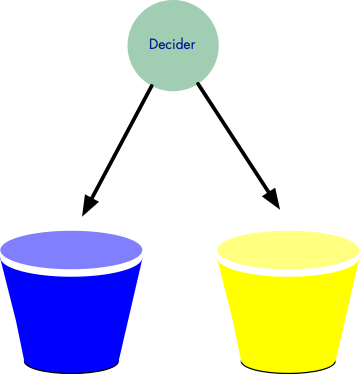
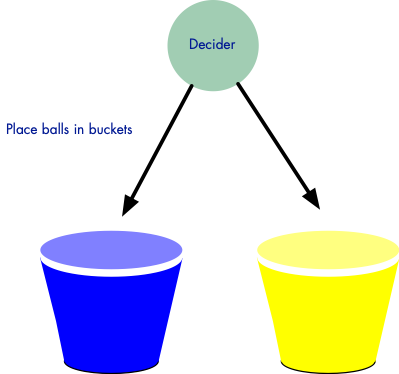
Completed todo list for Main task

diff --git a/todo-list.md b/todo-list.md
@@ -8,7 +8,7 @@
 - Reference to amounts that can be earned -- are these based on variables or hard coded?
 - Instructions page
 	- 100 points = 1 Euro --> "1 Dollar"
-	- Baseline of 650 points for earnings may need to be changed
+	- Baseline of 650 points for earnings may need to be changed, TBD
 	- Roles subsection
 		- put "selector" and "decider" in boldface when they first appear
 		- include a picture in this subseection, after first para -- "players.png" (temporarily stored in root level of this repository)
@@ -19,6 +19,11 @@
 			- Add image "selector-choose-partners.png" after the second paragraph
 		- Stage 3
 			- Add image "decider-allocates.png" after the second para
+		- Checkbox for all of Part 1 should appear after the Feedback sub-box
+- Decider, Stage 1
+	- add pictures of buckets over the buttons
+- Decider, Stage 3
+	- Decider should have the option to give up to 500 points to selector, and keep none for self -- as well as intermediate options (current list of options is constrained so can not give more than half away.)
 
 ## Toby
 
@@ -27,8 +32,22 @@
 	- Consent page needs updated contact information
 	- Reference to Euros need to be replaced with dollars throughout
 	- Reference to earning credits needs to be removed.
+- Payments: why is the baseline payment 6.50, when the MAXIMUM the selector can earn appears to be 5? That seems to ruin any incentive to pick a good partner... Or do they add earnings across parts  1 and 2?
 - Instructions page
 	- Part 1
 		- Stage 2
 			- Is it clear that groups remain the same for all 15 rounds? Should it be made more explicit?
-			- 
+
+
+
+Maximum earnings for a decider on a round:
+
+225 + 500 == 725 (keep zero in dictator game)
+
+If they follow rule, they give up 150
+
+If they split fairly, they give up 250
+
+If they don't get chosen, they give up 250-500, depending on how selfish.
+
+Maximum earnings for a selector: 1500 if they receive 500 from all three. More realistically 750, if they get 50/50 splits from three.
